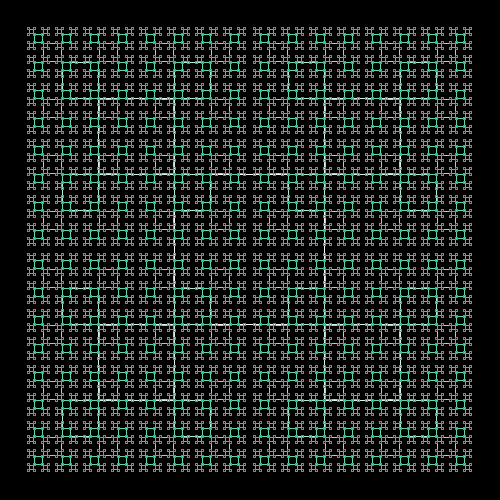
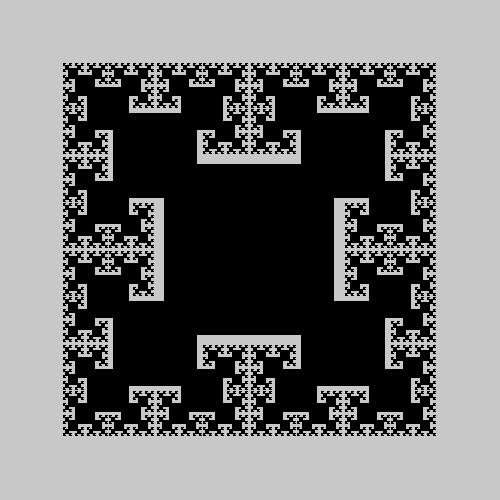
half-square final

diff --git a/main.py b/main.py
@@ -52,16 +52,31 @@ def draw_line(xy1,xy2,pixels,color):
 
             pixels[cords[1]][cords[0]] = color
 
+def square_cords(center,side_length):
+
+    cords = {"top_left":(center[0]-round(side_length/2),center[1]-round(side_length/2)),
+            "top_right":(center[0]+round(side_length/2),center[1]-round(side_length/2)),
+             "bottom_right" : (center[0]-round(side_length/2),center[1]+round(side_length/2)),
+             "bottom_left" : (center[0]+round(side_length/2),center[1]+round(side_length/2))
+    }
+
+    return cords 
+
 def draw_square(center, side_length, pixels, color):
-    top_right_cords = (center[0]-round(side_length/2),center[1]-round(side_length/2))
-    top_left_cords = (center[0]+round(side_length/2),center[1]-round(side_length/2))
-    bottom_right_cords = (center[0]-round(side_length/2),center[1]+round(side_length/2))
-    bottom_left_cords = (center[0]+round(side_length/2),center[1]+round(side_length/2))
     
-    draw_line(top_left_cords,top_right_cords,pixels,color)
-    draw_line(bottom_left_cords,bottom_right_cords,pixels,color)
-    draw_line(top_left_cords,bottom_left_cords,pixels,color)
-    draw_line(top_right_cords,bottom_right_cords,pixels,color)
+    cords = square_cords(center,side_length)
+    draw_line(cords["top_left"],cords["top_right"],pixels,color)
+    draw_line(cords["bottom_left"],cords["bottom_right"],pixels,color)
+    draw_line(cords["top_left"],cords["bottom_left"],pixels,color)
+    draw_line(cords["top_right"],cords["bottom_right"],pixels,color)
+
+def fill_square(center, side_length, pixels, color):
+    cords = square_cords(center,side_length)
+
+    for x in range(cords["top_left"][0],cords["top_right"][0]):
+        for y in range(cords["top_left"][1],cords["bottom_left"][1]):
+            if 0 < x and x < 500 and 0 < y and y < 500:
+                pixels[y][x] = color
 
     
 def draw_square_fractal(center, side_lenth, depth, pixels, color, origin):
@@ -69,16 +84,11 @@ def draw_square_fractal(center, side_lenth, depth, pixels, color, origin):
         return
     else:
         draw_square(center,side_lenth,pixels,color)
+        fill_square(center,side_lenth,pixels,color)
 
-        plusX = round(center[0]+side_lenth/1.333333)
-        minusX = round(center[0]-side_lenth/1.333333)
-
-        plusY = round(center[1]+side_lenth/1.333333)
-        minusY = round(center[1]-side_lenth/1.333333)
-
-        r=color[0]-40
-        g=color[1]-10
-        b=color[2]-20
+        r=color[0]-0
+        g=color[1]-0
+        b=color[2]-0
 
         if (r < 0):
             r = 0
@@ -88,39 +98,42 @@ def draw_square_fractal(center, side_lenth, depth, pixels, color, origin):
             b = 0
 
         new_color = (r,g,b)
-        
+
+        plusX = round(center[0]+side_lenth/1.8)
+        minusX = round(center[0]-side_lenth/1.8)
+
+        plusY = round(center[1]+side_lenth/1.8)
+        minusY = round(center[1]-side_lenth/1.8)
+
         #top right square
-        #if(origin != "bottomleft"):
-        draw_square_fractal((plusX,minusY),side_lenth//2, depth-1,pixels,new_color,"topright")
+        if(origin != "bottomleft"):
+            draw_square_fractal((plusX,minusY),side_lenth//2, depth-1,pixels,new_color,"topright")
 
         #top left square
-        #if(origin != "bottomright"):
-        draw_square_fractal((minusX,minusY),side_lenth//2, depth-1,pixels,new_color,"topleft")
+        if(origin != "bottomright"):
+            draw_square_fractal((minusX,minusY),side_lenth//2, depth-1,pixels,new_color,"topleft")
 
         #bottom right square
-        #if(origin != "topleft"):
-        draw_square_fractal((plusX,plusY),side_lenth//2, depth-1,pixels,new_color,"bottomright")
+        if(origin != "topleft"):
+            draw_square_fractal((plusX,plusY),side_lenth//2, depth-1,pixels,new_color,"bottomright")
 
         #bottom left square
-        #if(origin != "topright"):
-        draw_square_fractal((minusX,plusY),side_lenth//2, depth-1,pixels,new_color,"bottomleft")
+        if(origin != "topright"):
+            draw_square_fractal((minusX,plusY),side_lenth//2, depth-1,pixels,new_color,"bottomleft")
 
 
 __name__ == "__main__"
 
-    
 
 center = (249,249)
-color = (255, 255, 255)
+color = (0, 0, 0)
 
-
-
-
-for x in range(1,10):
+for x in range(0,12):
         # Define the size of our image
     pixels = np.zeros( (500, 500,3), dtype=np.uint8 )
+    pixels.fill(200)
         #draw fractal 
-    draw_square_fractal(center,150,x,pixels,color,None)
+    draw_square_fractal(center,170,x,pixels,color,None)
         # Turn our pixel array into a real picture
     img = Image.fromarray(pixels)
         # save the image
